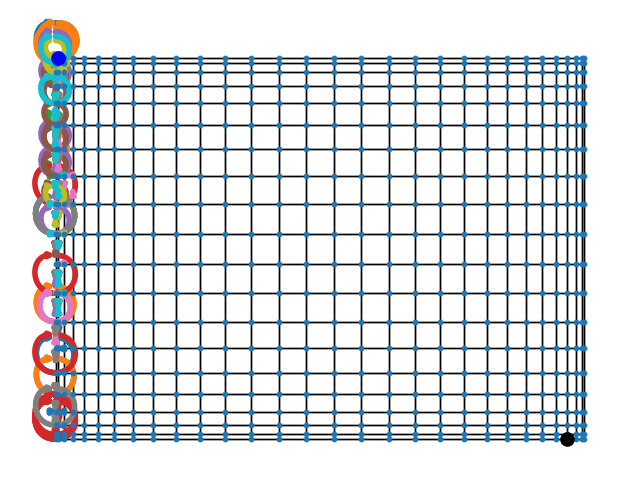
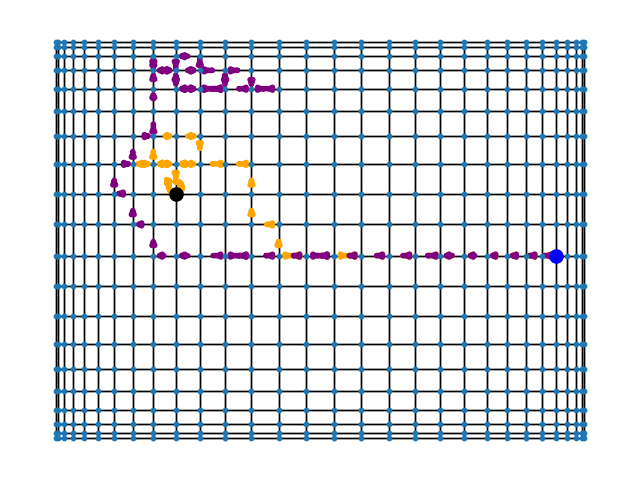
Asdflkm

Changed region(s): [[0.0312, 0.0312, 0.9375, 0.9375]]

diff --git a/gridworlds/test_policy.py b/gridworlds/test_policy.py
@@ -31,7 +31,7 @@ success_num_trials = 100
 num_pg_steps = 300
 stepsize = 1
 trajectory_batch_size = 30
-manhattan_reward = False
+manhattan_reward = True
 state_representation = "two-dim"
 location_normalized = True
 encode_goal = True
